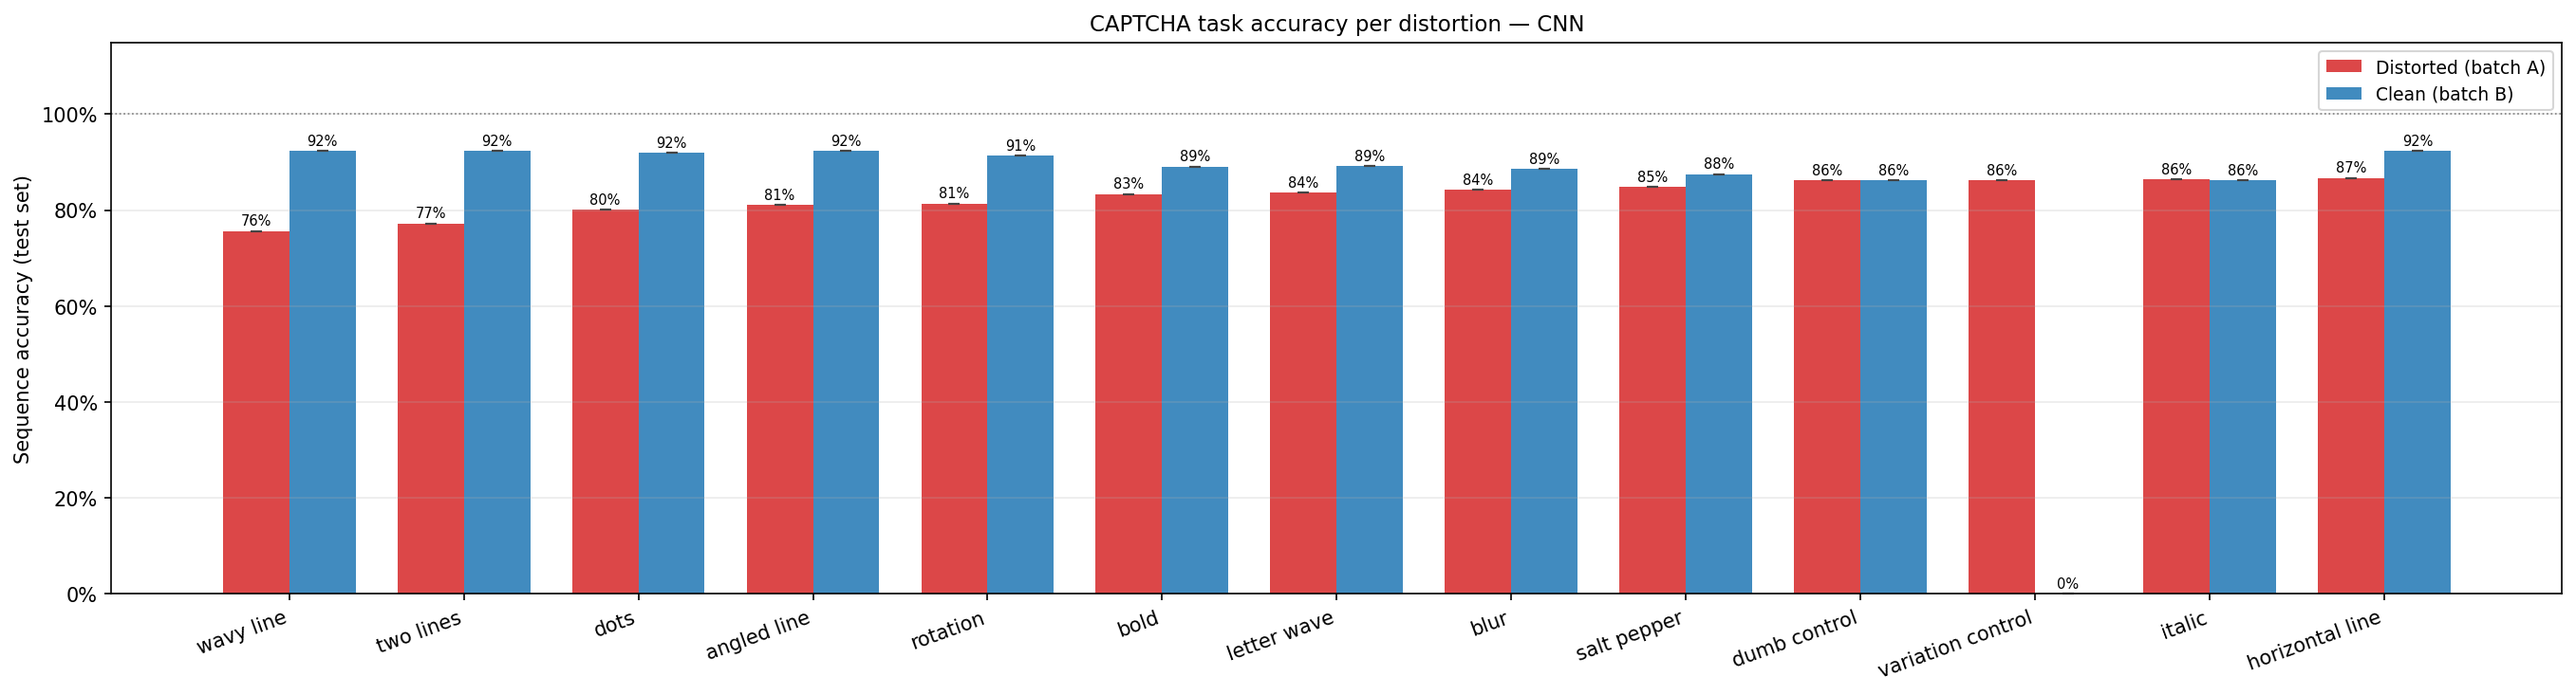
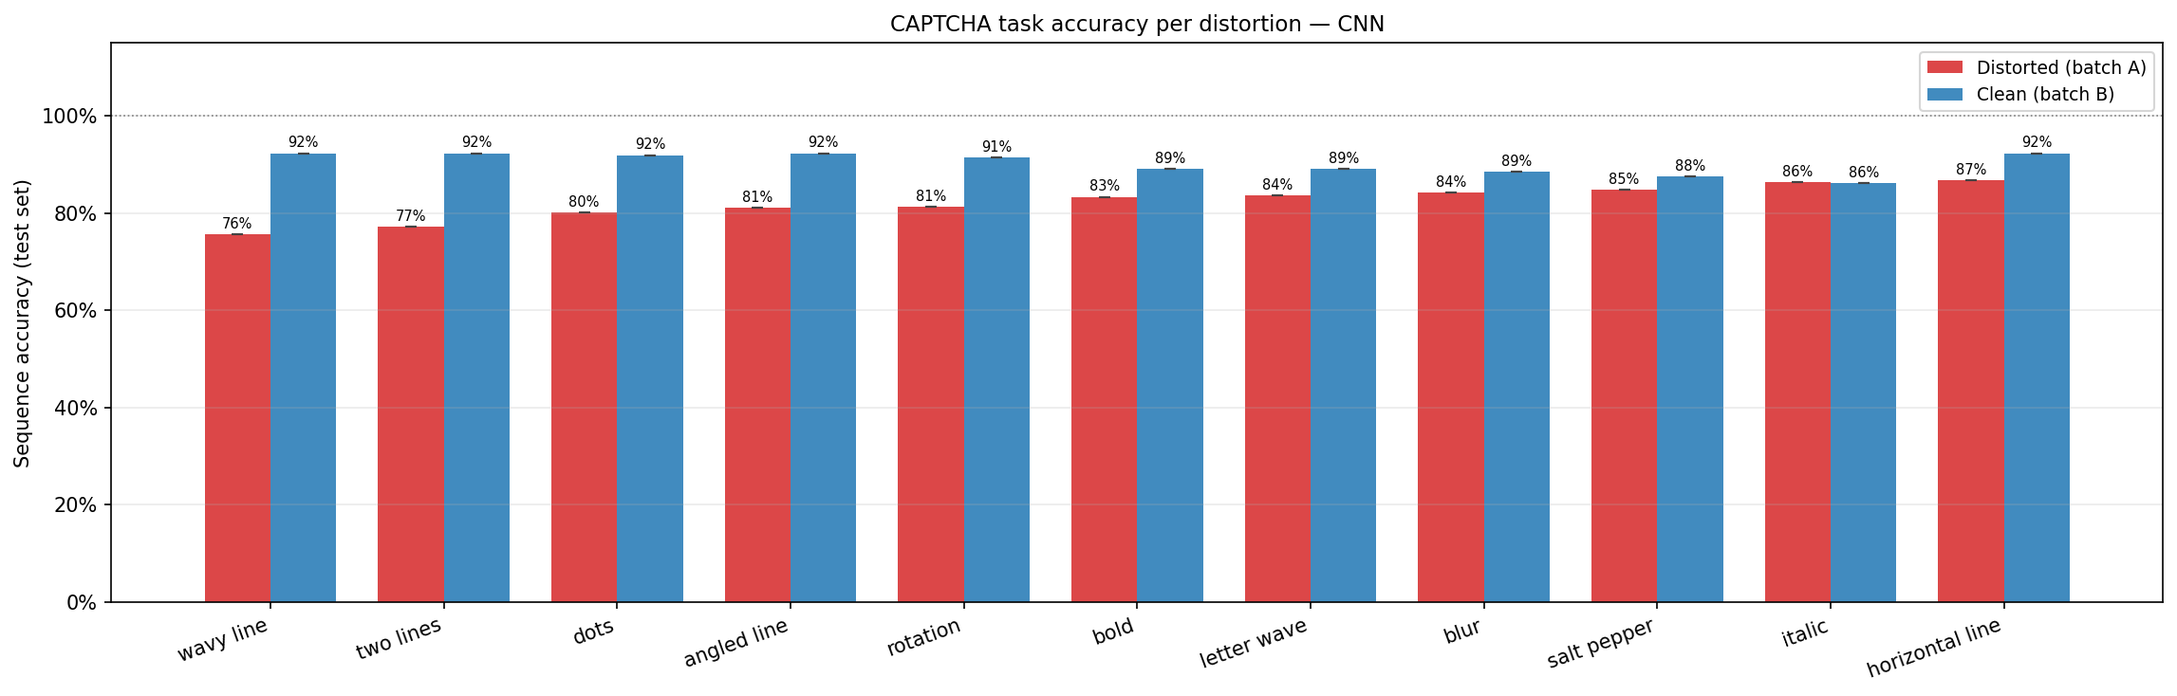
Add DINOv2-S-frozen model and update transcription accuracy metrics

diff --git a/charts/make_charts.py b/charts/make_charts.py
@@ -40,6 +40,7 @@ CHARTS_DIR = Path(__file__).resolve().parent
 CANDIDATES: list[tuple[str, Path, Path | None]] = [
     ("CNN",                REPO_ROOT / "probe_results/full/results.json",                         None),
     ("DINOv2-S-lora",      REPO_ROOT / "dino_results/dinov2-small-lora/results.json",             REPO_ROOT / "dino_results/dinov2-small-lora/activations"),
+    ("DINOv2-S-frozen",    REPO_ROOT / "dino_results/dinov2-small-frozen/results.json",           REPO_ROOT / "dino_results/dinov2-small-frozen/activations"),
     ("DINOv2-B-lora",      REPO_ROOT / "dino_results/dinov2-base-lora/results.json",              REPO_ROOT / "dino_results/dinov2-base-lora/activations"),
     ("DINOv2-L-lora",      REPO_ROOT / "dino_results/dinov2-large-lora/results.json",              REPO_ROOT / "dino_results/dinov2-large-lora/activations"),
     ("CLIP-B-lora",        REPO_ROOT / "dino_results/clip-vit-base-lora/results.json",            REPO_ROOT / "dino_results/clip-vit-base-lora/activations"),
@@ -52,6 +53,7 @@ CANDIDATES: list[tuple[str, Path, Path | None]] = [
 MLP_RESULTS: dict[str, Path] = {
     "CNN":              REPO_ROOT / "probe_results/full_mlp/results.json",
     "DINOv2-S-lora":    REPO_ROOT / "dino_results/dinov2-small-lora/mlp/results.json",
+    "DINOv2-S-frozen":  REPO_ROOT / "dino_results/dinov2-small-frozen/mlp/results.json",
     "DINOv2-B-lora":    REPO_ROOT / "dino_results/dinov2-base-lora/mlp/results.json",
     "DINOv2-L-lora":    REPO_ROOT / "dino_results/dinov2-large-lora/mlp/results.json",
     "CLIP-B-lora":      REPO_ROOT / "dino_results/clip-vit-base-lora/mlp/results.json",
@@ -66,6 +68,7 @@ TRAINING_METRICS: dict[str, Path | dict] = {
         "val_seq_acc": 0.9569, "val_char_acc": None,
         "freeze_backbone": False, "train_size": None,
     },
+    "DINOv2-S-frozen":  REPO_ROOT / "dino_runs/dinov2-small-frozen/metrics.json",
     "DINOv2-S-lora":    REPO_ROOT / "dino_runs/dinov2-small-lora/metrics.json",
     "DINOv2-B-lora":    REPO_ROOT / "dino_runs/dinov2-base-lora/metrics.json",
     "DINOv2-L-lora":    REPO_ROOT / "dino_runs/dinov2-large-lora/metrics.json",
@@ -76,6 +79,7 @@ TRAINING_METRICS: dict[str, Path | dict] = {
 TRANSCRIPTION_ACCURACY: dict[str, Path] = {
     "CNN":              REPO_ROOT / "probe_results/full/transcription_accuracy.json",
     "DINOv2-S-lora":    REPO_ROOT / "dino_results/dinov2-small-lora/transcription_accuracy.json",
+    "DINOv2-S-frozen":  REPO_ROOT / "dino_results/dinov2-small-frozen/transcription_accuracy.json",
     "DINOv2-B-lora":    REPO_ROOT / "dino_results/dinov2-base-lora/transcription_accuracy.json",
     "DINOv2-L-lora":    REPO_ROOT / "dino_results/dinov2-large-lora/transcription_accuracy.json",
     "CLIP-B-lora":      REPO_ROOT / "dino_results/clip-vit-base-lora/transcription_accuracy.json",

diff --git a/probe/run.py b/probe/run.py
@@ -102,15 +102,6 @@ def _parse_args() -> argparse.Namespace:
     return p.parse_args()
 
 
-_EXP_NAME_ALIASES = {
-    "dumb_control":      "same_data_control",
-    "variation_control": "same_distribution_control",
-}
-
-
-def _exp_name(dir_name: str) -> str:
-    return _EXP_NAME_ALIASES.get(dir_name, dir_name)
-
 
 def _resolve_experiments(args: argparse.Namespace, root: Path) -> list[Path]:
     if args.experiment:
@@ -170,13 +161,13 @@ def main() -> None:
         if local_experiments:
             transcription_accuracy: dict = {}
             for exp_dir in tqdm(experiments, desc="Extracting"):
-                out = args.activations / _exp_name(exp_dir.name)
+                out = args.activations / exp_dir.name
                 if not args.force_extract and not _needs_extraction(out, config):
-                    tqdm.write(f"  {_exp_name(exp_dir.name)}: activations already exist, skipping")
+                    tqdm.write(f"  {exp_dir.name}: activations already exist, skipping")
                     continue
                 acc = extract_experiment(exp_dir, model, device, out, config, max_train_ids=args.max_train_ids)
-                transcription_accuracy[_exp_name(exp_dir.name)] = acc
-                tqdm.write(f"  {_exp_name(exp_dir.name)} -> {out}")
+                transcription_accuracy[exp_dir.name] = acc
+                tqdm.write(f"  {exp_dir.name} -> {out}")
             if transcription_accuracy:
                 acc_path = args.output / "transcription_accuracy.json"
                 args.output.mkdir(parents=True, exist_ok=True)

diff --git a/dino/run.py b/dino/run.py
@@ -83,16 +83,6 @@ def _parse_args() -> argparse.Namespace:
     return p.parse_args()
 
 
-_EXP_NAME_ALIASES = {
-    "dumb_control":      "same_data_control",
-    "variation_control": "same_distribution_control",
-}
-
-
-def _exp_name(dir_name: str) -> str:
-    """Translate legacy on-disk experiment names to canonical names."""
-    return _EXP_NAME_ALIASES.get(dir_name, dir_name)
-
 
 def _resolve_experiments(root: Path, single: str | None) -> list[Path]:
     if single:
@@ -142,7 +132,7 @@ def main() -> None:
         experiments = _resolve_experiments(Path(args.experiments), args.experiment)
         accuracy: dict[str, dict] = {}
         for exp_dir in tqdm(experiments, desc="Extracting"):
-            name = _exp_name(exp_dir.name)
+            name = exp_dir.name
             out = activations_root / name
             expected = out / f"test_batch_b_{layers[-1]}.npy"
             if not args.force_extract and expected.exists():
